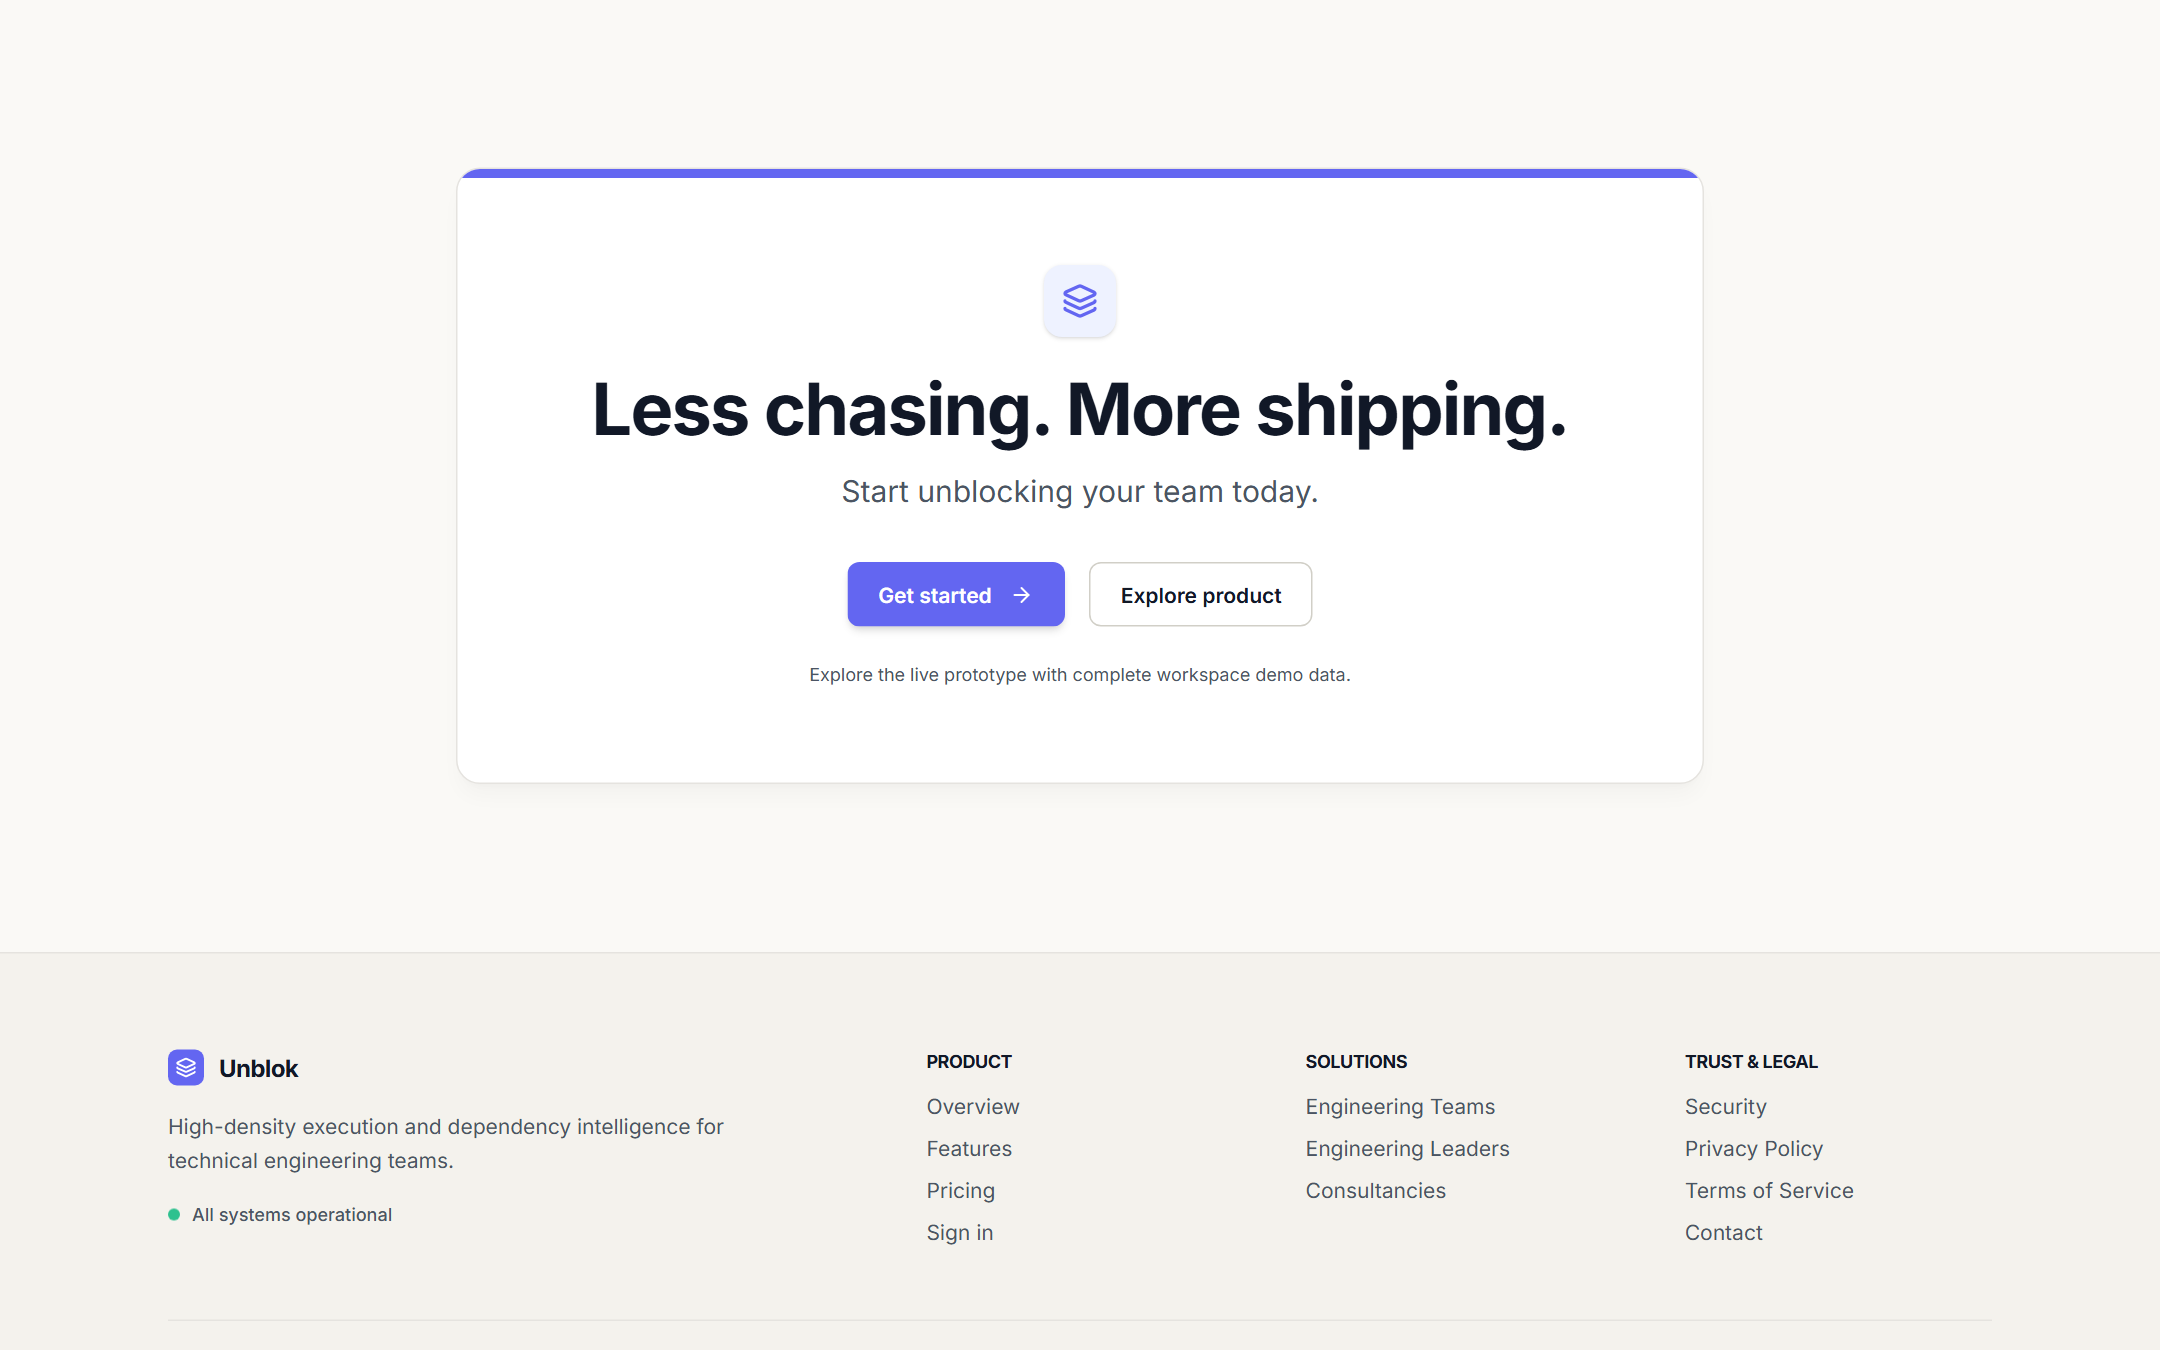
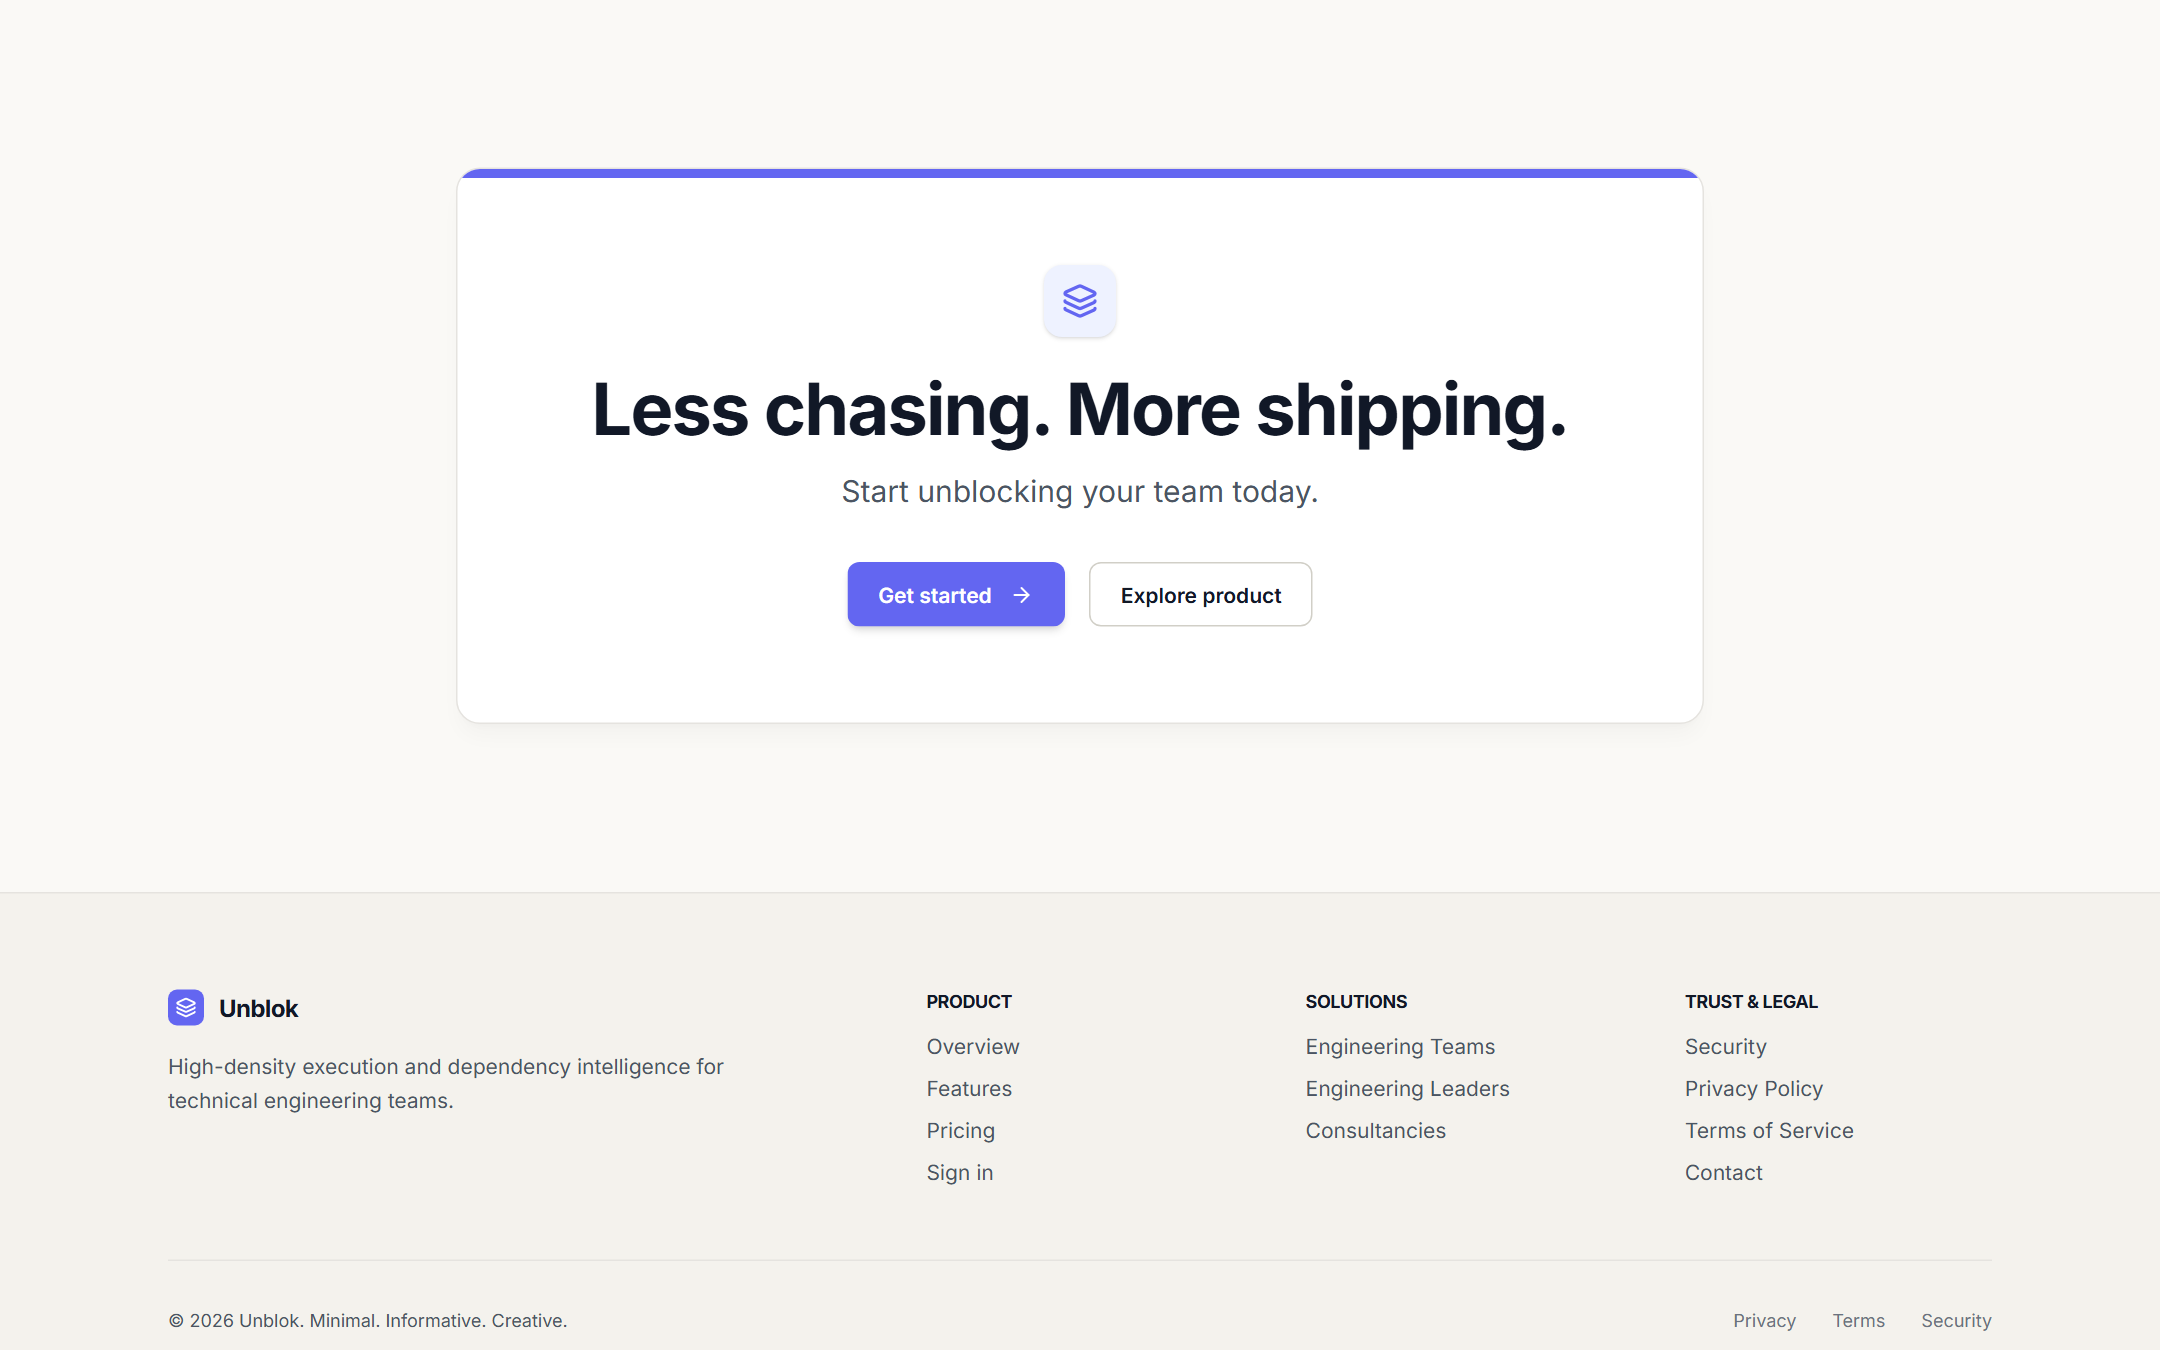
fix(ux-11b): deterministic 404 ownership, remove fake status and internal copy

diff --git a/src/features/public/publicHome.test.tsx b/src/features/public/publicHome.test.tsx
@@ -6,7 +6,7 @@
 import { describe, it, expect } from 'vitest';
 import React from 'react';
 import { renderToString } from 'react-dom/server';
-import { MemoryRouter, Routes, Route } from 'react-router-dom';
+import { MemoryRouter } from 'react-router-dom';
 import { HomePage } from '../../pages/public/HomePage';
 import { PublicLayout } from '../../app/layouts/PublicLayout';
 import { AuthLayout } from '../../app/layouts/AuthLayout';
@@ -18,12 +18,9 @@ import { PublicNotFoundPage } from './components/PublicNotFoundPage';
 import { PrivateNotFoundPage } from '../../pages/placeholder/PrivateNotFoundPage';
 import { ProductCapture } from './components/ProductCapture';
 import { HeroSection } from './sections/HeroSection';
-import { ExecutionSection } from './sections/ExecutionSection';
-import { DependenciesSection } from './sections/DependenciesSection';
-import { IssueContextSection } from './sections/IssueContextSection';
-import { PlanningSection } from './sections/PlanningSection';
-import { InsightsSection } from './sections/InsightsSection';
 import { FinalCtaSection } from './sections/FinalCtaSection';
+import { AppRoutes } from '../../app/router/AppRouter';
+import { AppProviders } from '../../app/providers/AppProviders';
 
 describe('UX-11B Public Homepage & Routing Architecture Validation', () => {
   describe('1. Public Homepage Narrative & Section Presence', () => {
@@ -91,6 +88,25 @@ describe('UX-11B Public Homepage & Routing Architecture Validation', () => {
       expect(html).not.toMatch(/\bAI\b/);
       expect(html).not.toMatch(/\blead intervention\b/i);
       expect(html).not.toMatch(/\batomic issue dependencies\b/i);
+    });
+
+    it('contains no fake operational status or internal prototype development copy on public surfaces', () => {
+      const homeHtml = renderToString(
+        <MemoryRouter>
+          <HomePage />
+        </MemoryRouter>
+      );
+      expect(homeHtml).not.toContain('All systems operational');
+      expect(homeHtml).not.toContain('live prototype');
+      expect(homeHtml).not.toContain('demo data');
+
+      const footerHtml = renderToString(
+        <MemoryRouter>
+          <PublicFooter />
+        </MemoryRouter>
+      );
+      expect(footerHtml).not.toContain('All systems operational');
+      expect(footerHtml).not.toContain('animate-pulse');
     });
   });
 
@@ -189,32 +205,64 @@ describe('UX-11B Public Homepage & Routing Architecture Validation', () => {
     });
   });
 
-  describe('4. Error Routing & 404 Boundaries', () => {
-    it('renders Public 404 within PublicLayout with Return Home and Explore Product', () => {
-      const html = renderToString(
-        <MemoryRouter>
-          <PublicNotFoundPage />
-        </MemoryRouter>
-      );
+  describe('4. Deterministic 404 Route Ownership', () => {
+    it('renders Public 404 for truly unknown global/public URLs within PublicLayout', () => {
+      const urls = ['/unknown', '/company', '/random-page', '/something-that-does-not-exist'];
 
-      expect(html).toContain('404 — Page Not Found');
-      expect(html).toContain('Return to Homepage');
-      expect(html).toContain('Explore Product');
-      expect(html).toContain('href="/"');
-      expect(html).toContain('href="/product"');
+      urls.forEach((url) => {
+        const html = renderToString(
+          <AppProviders>
+            <MemoryRouter initialEntries={[url]}>
+              <AppRoutes />
+            </MemoryRouter>
+          </AppProviders>
+        );
+
+        // Renders Public 404 inside PublicLayout
+        expect(html).toContain('404 — Page Not Found');
+        expect(html).toContain('Return to Homepage');
+        expect(html).toContain('Explore Product');
+        expect(html).toContain('class="unblok-public-theme"');
+
+        // Does NOT render in AppShellLayout
+        expect(html).not.toContain('Resource Not Found');
+        expect(html).not.toContain('workspace-sidebar');
+      });
     });
 
-    it('renders in-shell Private 404 with Go to My Work and search shortcut', () => {
-      const html = renderToString(
-        <MemoryRouter initialEntries={['/projects/INVALID/issues']}>
-          <PrivateNotFoundPage />
-        </MemoryRouter>
-      );
+    it('retains in-shell Private 404 ownership for unknown descendants under all canonical private namespaces', () => {
+      const privateUrls = [
+        '/projects/ENG/nonexistent',
+        '/issues/nonexistent/extra',
+        '/teams/ENG/nonexistent',
+        '/cycles/nonexistent/extra',
+        '/milestones/nonexistent/extra',
+        '/settings/nonexistent',
+        '/dependencies/nonexistent',
+        '/roadmap/nonexistent',
+        '/insights/nonexistent',
+        '/my-work/nonexistent',
+        '/inbox/nonexistent',
+      ];
 
-      expect(html).toContain('Resource Not Found');
-      expect(html).toContain('Go to My Work');
-      expect(html).toContain('Open Search (⌘K)');
-      expect(html).toContain('href="/my-work"');
+      privateUrls.forEach((url) => {
+        const html = renderToString(
+          <AppProviders>
+            <MemoryRouter initialEntries={[url]}>
+              <AppRoutes />
+            </MemoryRouter>
+          </AppProviders>
+        );
+
+        // Must stay inside AppShell and render in-shell Private 404
+        expect(html).toContain('Resource Not Found');
+        expect(html).toContain('Go to My Work');
+        expect(html).toContain('Open Search (⌘K)');
+
+        // Must NOT fall into Public 404
+        expect(html).not.toContain('404 — Page Not Found');
+        expect(html).not.toContain('Return to Homepage');
+      });
     });
   });
 
@@ -269,19 +317,20 @@ describe('UX-11B Public Homepage & Routing Architecture Validation', () => {
   });
 
   describe('7. PublicPlaceholderPage Contract', () => {
-    it('renders placeholder with clear phase labeling and auth/home actions', () => {
+    it('renders placeholder with Coming Soon and auth/home actions without internal phase jargon', () => {
       const html = renderToString(
         <MemoryRouter>
           <PublicPlaceholderPage
             title="Pricing & Packaging"
             category="Commercial"
             description="Dedicated commercial presentation surface."
-            targetPhase="UX-11C"
           />
         </MemoryRouter>
       );
 
-      expect(html).toContain('UX-11C');
+      expect(html).toContain('Coming Soon');
+      expect(html).not.toContain('UX-11C');
+      expect(html).not.toContain('Scheduled for');
       expect(html).toContain('Pricing &amp; Packaging');
       expect(html).toContain('Dedicated commercial presentation surface.');
       expect(html).toContain('href="/"');

diff --git a/src/app/router/AppRouter.tsx b/src/app/router/AppRouter.tsx
@@ -40,10 +40,9 @@ import { TeamsSettingsPage } from '../../pages/settings/TeamsSettingsPage';
 import { IntegrationsSettingsPage } from '../../pages/settings/IntegrationsSettingsPage';
 import { PreferencesSettingsPage } from '../../pages/settings/PreferencesSettingsPage';
 
-export const AppRouter: React.FC = () => {
+export const AppRoutes: React.FC = () => {
   return (
-    <BrowserRouter>
-      <Routes>
+    <Routes>
         {/* ========================================================= */}
         {/* 1. PUBLIC ROUTE FAMILY (UX-11A / UX-11B)                  */}
         {/* Uses PublicLayout with fixed theme, header, and footer    */}
@@ -151,9 +150,11 @@ export const AppRouter: React.FC = () => {
         <Route element={<AppShellLayout />}>
           {/* Primary UX-01 Page */}
           <Route path="/my-work" element={<MyWorkPage />} />
+          <Route path="/my-work/*" element={<PrivateNotFoundPage />} />
 
           {/* Canonical Inbox Page (UX-06) */}
           <Route path="/inbox" element={<InboxPage />} />
+          <Route path="/inbox/*" element={<PrivateNotFoundPage />} />
 
           {/* Projects Space (UX-02 Fully Implemented) */}
           <Route path="/projects" element={<ProjectsDirectoryPage />} />
@@ -165,10 +166,11 @@ export const AppRouter: React.FC = () => {
             <Route path="settings" element={<ProjectSettingsPage />} />
             <Route path="*" element={<PrivateNotFoundPage />} />
           </Route>
+          <Route path="/projects/*" element={<PrivateNotFoundPage />} />
 
           {/* Issues Space (UX-03 Real Canonical Page) */}
           <Route path="/issues/:issueKey" element={<IssueDetailPage />} />
-          <Route path="/issues" element={<PrivateNotFoundPage />} />
+          <Route path="/issues/*" element={<PrivateNotFoundPage />} />
 
           {/* Teams Space */}
           <Route
@@ -191,19 +193,27 @@ export const AppRouter: React.FC = () => {
               />
             }
           />
+          <Route path="/teams/*" element={<PrivateNotFoundPage />} />
 
           {/* Planning Space (UX-05 Canonical Implementation) */}
           <Route path="/cycles" element={<CyclesPage />} />
           <Route path="/cycles/:cycleId" element={<CycleDetailPage />} />
+          <Route path="/cycles/*" element={<PrivateNotFoundPage />} />
+
           <Route path="/milestones" element={<MilestonesPage />} />
           <Route path="/milestones/:milestoneId" element={<MilestoneDetailPage />} />
+          <Route path="/milestones/*" element={<PrivateNotFoundPage />} />
+
           <Route path="/roadmap" element={<RoadmapPage />} />
+          <Route path="/roadmap/*" element={<PrivateNotFoundPage />} />
 
           {/* Dependency Intelligence Space (UX-04 Canonical Page) */}
           <Route path="/dependencies" element={<DependenciesPage />} />
+          <Route path="/dependencies/*" element={<PrivateNotFoundPage />} />
 
           {/* Insights Space (UX-07 Canonical Destination) */}
           <Route path="/insights" element={<InsightsPage />} />
+          <Route path="/insights/*" element={<PrivateNotFoundPage />} />
 
           {/* Settings Space (UX-08 Canonical Implementation) */}
           <Route path="/settings" element={<Outlet />}>
@@ -244,7 +254,9 @@ export const AppRouter: React.FC = () => {
               <Route path="preferences" element={<PreferencesSettingsPage />} />
               <Route path="*" element={<PrivateNotFoundPage />} />
             </Route>
+            <Route path="*" element={<PrivateNotFoundPage />} />
           </Route>
+          <Route path="/settings/*" element={<PrivateNotFoundPage />} />
 
           {/* Explicit private fallback routes */}
           <Route path="/app/*" element={<PrivateNotFoundPage />} />
@@ -258,6 +270,13 @@ export const AppRouter: React.FC = () => {
           <Route path="*" element={<PublicNotFoundPage />} />
         </Route>
       </Routes>
+  );
+};
+
+export const AppRouter: React.FC = () => {
+  return (
+    <BrowserRouter>
+      <AppRoutes />
     </BrowserRouter>
   );
 };

diff --git a/src/features/public/components/PublicPlaceholderPage.tsx b/src/features/public/components/PublicPlaceholderPage.tsx
@@ -19,7 +19,6 @@ export const PublicPlaceholderPage: React.FC<PublicPlaceholderPageProps> = ({
   title,
   category,
   description,
-  targetPhase = 'UX-11C',
 }) => {
   return (
     <div className="py-24 sm:py-32 flex-1 flex items-center">
@@ -27,7 +26,7 @@ export const PublicPlaceholderPage: React.FC<PublicPlaceholderPageProps> = ({
         <div className="bg-white border border-[var(--color-pub-border)] rounded-2xl p-8 sm:p-12 shadow-sm text-center">
           <div className="inline-flex items-center gap-2 px-3 py-1 rounded-full bg-[var(--color-pub-accent-subtle)] text-[var(--color-pub-accent)] text-xs font-semibold mb-6">
             <Construction className="w-3.5 h-3.5" />
-            <span>Public Route Specification · Scheduled for {targetPhase}</span>
+            <span>Coming Soon</span>
           </div>
 
           <p className="text-xs font-bold uppercase tracking-widest text-[var(--color-pub-text-muted)] mb-2">

diff --git a/src/features/public/components/PublicFooter.tsx b/src/features/public/components/PublicFooter.tsx
@@ -27,10 +27,6 @@ export const PublicFooter: React.FC = () => {
             <p className="text-sm text-[var(--color-pub-text-secondary)] max-w-sm leading-relaxed">
               High-density execution and dependency intelligence for technical engineering teams.
             </p>
-            <div className="flex items-center gap-2 text-xs font-medium text-[var(--color-pub-text-secondary)]">
-              <span className="w-2 h-2 rounded-full bg-[var(--color-pub-done)] animate-pulse" />
-              <span>All systems operational</span>
-            </div>
           </div>
 
           {/* Column 1: Product */}

diff --git a/src/features/public/sections/FinalCtaSection.tsx b/src/features/public/sections/FinalCtaSection.tsx
@@ -44,10 +44,6 @@ export const FinalCtaSection: React.FC = () => {
               Explore product
             </Link>
           </div>
-
-          <p className="text-xs text-[var(--color-pub-text-muted)] mt-6">
-            Explore the live prototype with complete workspace demo data.
-          </p>
         </div>
       </MarketingContainer>
     </MarketingSection>
